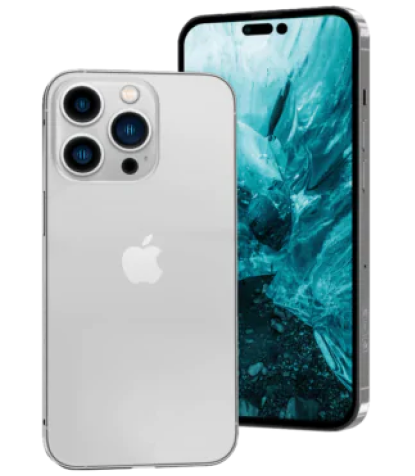
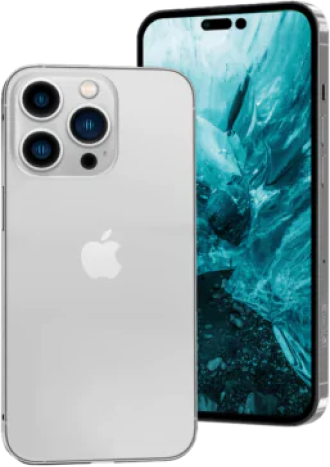
pictures

diff --git a/display.js b/display.js
@@ -7,7 +7,7 @@ const phoneScrolls = [
     samsung = [
         galaxyS22 = {title: "Galaxy S 22", price: "8299", imageUrl: "images/se-galaxy-s22-s901-sm-s901bzggeub-530830399.webp", info: ["FHD+ sAMOLED 120 Hz Display", "64MP OIS Camera", "2 Days Battery"]},
         galaxyS21 = {title: "Galaxy S 21", price: "5899", imageUrl: "images/galaxy-s21.png", info: ["6,2 amoled FHD display", "108+10+10+12Mpx-camera, laserfokus", "4000 mAh battery"]},
-        galaxyzfold2 = {title: "Galaxy S 25", price: "14499", imageUrl: "images/au-galaxy-z-fold2-f916-sm-f916bznaxsa-frontmysticbronze-274062018.webp", info: ["foldable screens", "Android 10 med Samsung One UI 2.5", "Snapdragon 865 Plus"]},
+        galaxyzfold2 = {title: "Galaxy S 25", price: "14499", imageUrl: "images/au-galaxy-z-fold2-f916-sm-f916bznaxsa-frontmysticbronze-274062018.png", info: ["foldable screens", "Android 10 med Samsung One UI 2.5", "Snapdragon 865 Plus"]},
         galaxyS22Ultra = {title: "Galaxy S 322", price: "10899", imageUrl: "images/2000928_20.avif", info: ["6.8 Infinity-O 120Hz-screen", "108+10+10+12 Mpx quadcamera", "5000mAh battery"]}
     ],
     title = "Samsung"
@@ -15,7 +15,7 @@ const phoneScrolls = [
 [
     onePlus = [
         onePlus10Pro = {title: "OnePlus 10 Pro", price: "10250", imageUrl: "images/onePlus-10-pro.png", info: ["6.7” 120Hz Fluid AMOLED-skärm", "48+50+8Mpx Hasselblad-kamera", "5000 mAh battery"]},
-        onePlus9Pro = {title: "OnePlus 9 Pro", price: "10250", imageUrl: "images/onePlus-9-pro.png", info: ["6.7” 120Hz Fluid AMOLED-screen", "quad camera with 48mp main camera", "4500 mAh battery"]},
+        onePlus9Pro = {title: "OnePlus 9 Pro", price: "10250", imageUrl: "images/oneplus-9-pro.png", info: ["6.7” 120Hz Fluid AMOLED-screen", "quad camera with 48mp main camera", "4500 mAh battery"]},
         onePlus8Pro = {title: "OnePlus 8 Pro", price: "10250", imageUrl: "images/onePlus-8-pro.png", info: ["6.7” 120Hz Fluid AMOLED-screen", "quad camera with 48mp main camera", "4510 mAh battery"]},
         onePlus7Pro = {title: "OnePlus 7 Pro", price: "10250", imageUrl: "images/onePlus-7-pro.png", info: ["6.7” 90Hz fluid AMOLED-screen", "retractable” selfie screen", "4000 mAh battery"]}
     ],
@@ -25,7 +25,7 @@ const phoneScrolls = [
     iPhone = [
         iphone14 = {title: "Iphone 14", price: "14900", imageUrl: "images/iphone14.png", info: ["6.1” super retina XDR OLED screen", "Dynamisk “island”", "3279 mAh battery"]},
         iphone14Plus = {title: "Iphone 14 Plus", price: "13490", imageUrl: "images/iphone14Plus.png", info: ["6.7“ Super Retina XDR-screen", "dual 12mp main camera", "4323 mAh battery"]},
-        iphone14Pro = {title: "Iphone 14 Pro", price: "16490", imageUrl: "images/iphone14Pro.webp", info: ["6.1” super retina XDR OLED screen", "triple 48mp main camera", "3200 mAh battery"]},
+        iphone14Pro = {title: "Iphone 14 Pro", price: "16490", imageUrl: "images/Iphone14Pro.png", info: ["6.1” super retina XDR OLED screen", "triple 48mp main camera", "3200 mAh battery"]},
         iphone13 = {title: "Iphone 13", price: "10490", imageUrl: "images/iphone13.png", info: ["6.1“ Super Retina XDR-screen", "dual 12mp cameras", "K3240 mAh battery"]}
     ],
     title = "Iphone"

diff --git a/style.css b/style.css
@@ -232,7 +232,7 @@ article {
     width: 100%;
     height: 40%;
     background-image: url("images/se-galaxy-s22-s901-sm-s901bzggeub-530830399.webp");
-    background-size: cover;
+    background-size: contain;
     background-repeat: no-repeat;
     background-position: center;
 }
